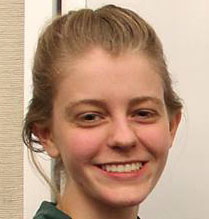
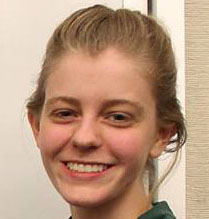
updated CTO/CAO pictures to face the same way. Updated subteam naes.

diff --git a/_includes/footer.html b/_includes/footer.html
@@ -22,7 +22,7 @@
     </div>
     <div class="row">
         <div class="col-lg-12">
-            Copyright &copy; Missouri S&amp;T Mars Rover Design Team 2014
+            Copyright &copy; Missouri S&amp;T Mars Rover Design Team 2015
         </div>
     </div>
   </footer>
